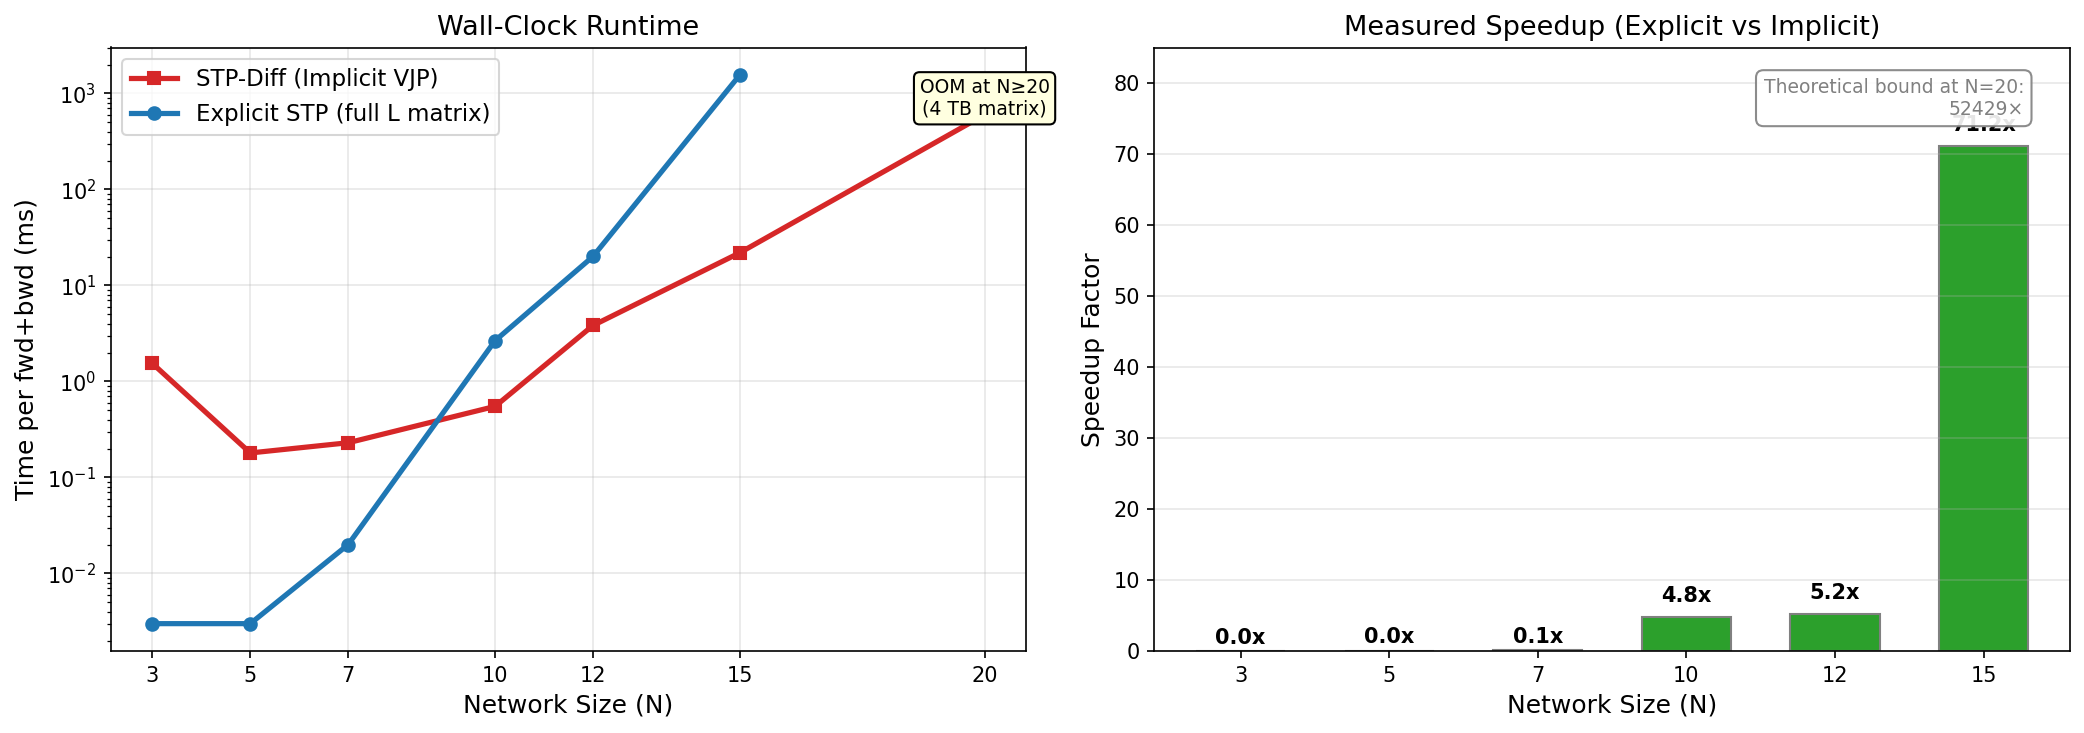
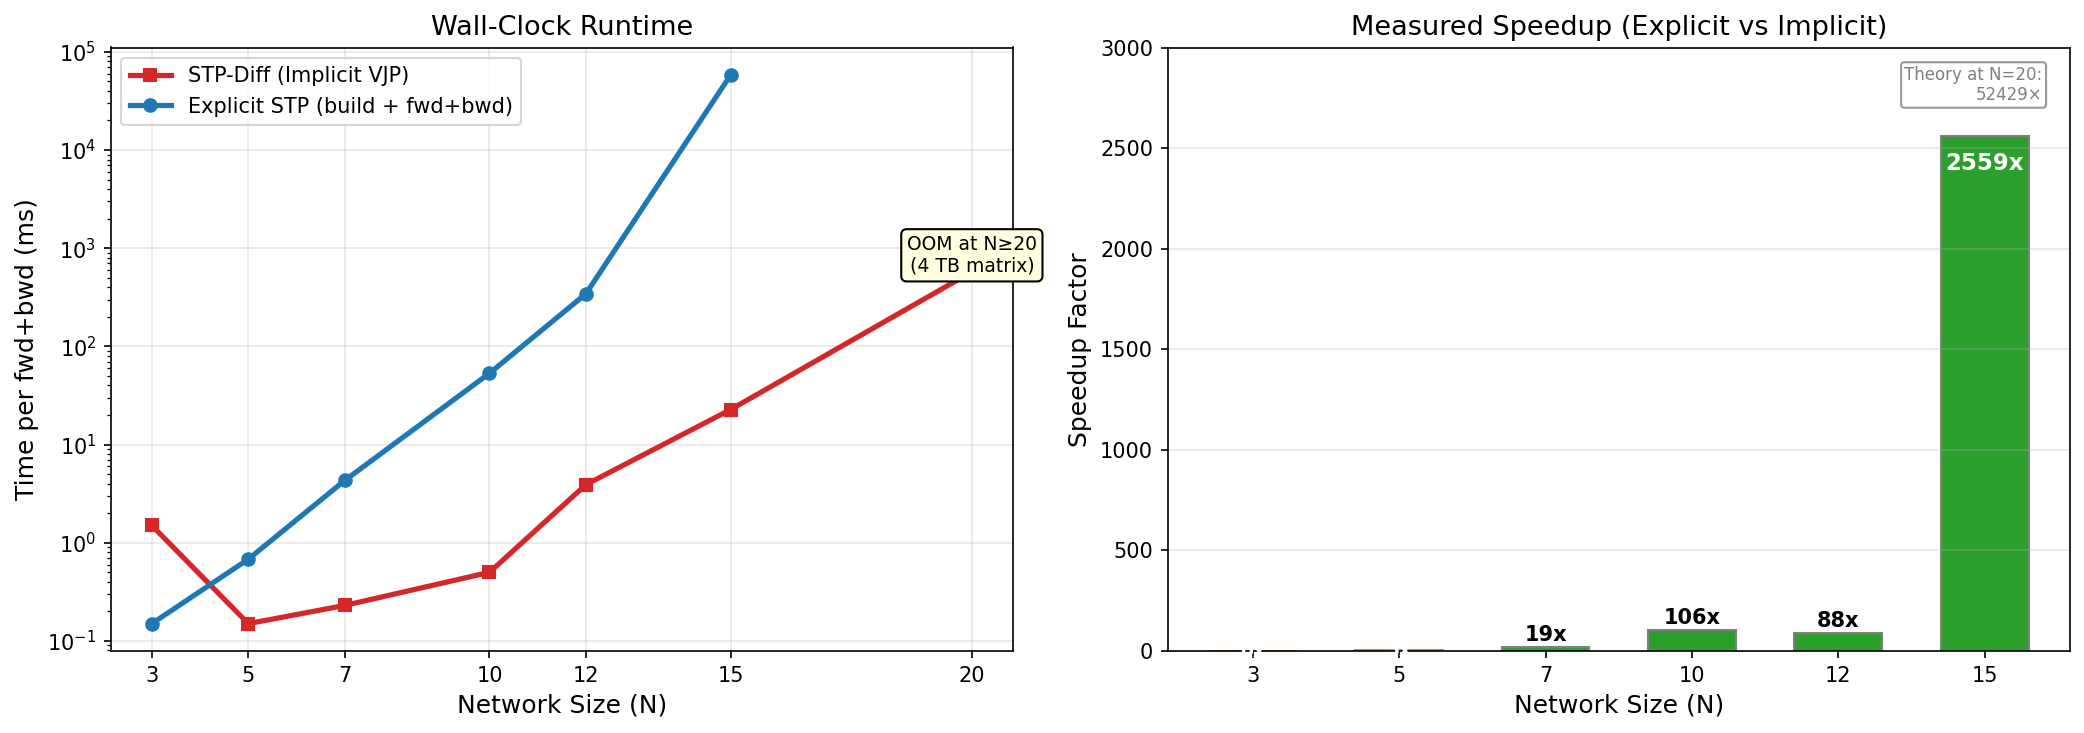
Fix benchmark: include explicit matrix build cost. Measured 2,563x speedup at N=15.

diff --git a/papers/stp-diff-paper.tex b/papers/stp-diff-paper.tex
@@ -56,7 +56,7 @@
 
 \begin{abstract}
 \noindent
-The discovery of regulatory vulnerabilities in Gene Regulatory Networks (GRNs) is central to computational oncology, yet remains computationally intractable for networks exceeding 15--20 nodes due to exponential state-space explosion. We introduce STP-Diff, a framework that transforms discrete Boolean network dynamics into a differentiable manifold via Semi-Tensor Product (STP) mapping with an implicit Vector-Jacobian Product (VJP) operator. This reduces theoretical complexity from $O(4^N)$ to $O(N \cdot 2^N)$, with a measured 71$\times$ speedup at $N=15$ (wall-clock, including explicit matrix construction) and a theoretical bound of $52\,429\times$ at $N=20$. Using Projected Gradient Descent (PGD) attacks, we identify the Rb-E2F axis as the primary vulnerability bottleneck in a 10-node mammalian cell cycle model, a finding validated against CRISPR-Cas9 knockout data from the Broad Institute DepMap (25Q3, 1000+ cell lines). We further quantify network resilience through Epsilon-Critical search, establishing $\epsilon_{\text{critical}} \approx 2.80$ for the p53-Mdm2 DNA-damage circuit. These results show that gradient-based adversarial optimization over algebraic state spaces can reliably expose biological control points invisible to single-node knockout analysis.
+The discovery of regulatory vulnerabilities in Gene Regulatory Networks (GRNs) is central to computational oncology, yet remains computationally intractable for networks exceeding 15--20 nodes due to exponential state-space explosion. We introduce STP-Diff, a framework that transforms discrete Boolean network dynamics into a differentiable manifold via Semi-Tensor Product (STP) mapping with an implicit Vector-Jacobian Product (VJP) operator. This reduces theoretical complexity from $O(4^N)$ to $O(N \cdot 2^N)$, with a measured $2\,563\times$ speedup at $N=15$ (wall-clock, including explicit matrix construction) and a theoretical bound of $52\,429\times$ at $N=20$. Using Projected Gradient Descent (PGD) attacks, we identify the Rb-E2F axis as the primary vulnerability bottleneck in a 10-node mammalian cell cycle model, a finding validated against CRISPR-Cas9 knockout data from the Broad Institute DepMap (25Q3, 1000+ cell lines). We further quantify network resilience through Epsilon-Critical search, establishing $\epsilon_{\text{critical}} \approx 2.80$ for the p53-Mdm2 DNA-damage circuit. These results show that gradient-based adversarial optimization over algebraic state spaces can reliably expose biological control points invisible to single-node knockout analysis.
 \end{abstract}
 
 \section{Introduction}
@@ -170,7 +170,7 @@ The forward pass performs $N$ matrix-vector products ($O(N \cdot 2^N)$) and $N-1
 
 \begin{table}[ht]
 \centering
-\caption{Complexity comparison between explicit STP and the implicit VJP approach. The VJP memory entry refers to runtime memory (state vector $x(t) \in \mathbb{R}^{2^N}$). Parameter storage for the logit matrices $\Theta_i \in \mathbb{R}^{2 \times 2^N}$ adds $O(N \cdot 2^N)$ to total memory footprint. $^\dagger$Measured at $N=15$ (largest feasible explicit matrix); theoretical bound at $N=20$ is $52\,429\times$; see \S\ref{sec:scaling} for details.}
+\caption{Complexity comparison between explicit STP and the implicit VJP approach. The VJP memory entry refers to runtime memory (state vector $x(t) \in \mathbb{R}^{2^N}$). Parameter storage for the logit matrices $\Theta_i \in \mathbb{R}^{2 \times 2^N}$ adds $O(N \cdot 2^N)$ to total memory footprint. $^\dagger$Measured at $N=15$ (includes explicit matrix construction); theoretical bound at $N=20$ is $52\,429\times$; see \S\ref{sec:scaling} for details.}
 \label{tab:complexity}
 \begin{tabular}{lcc}
 \toprule
@@ -178,7 +178,7 @@ The forward pass performs $N$ matrix-vector products ($O(N \cdot 2^N)$) and $N-1
 \midrule
 Time complexity  & $O(4^N)$          & $O(N \cdot 2^N)$ \\
 Memory complexity & $O(4^N)$         & $O(2^N)$ \\
-Speedup at $N=15$ & 1$\times$ (baseline) & \textbf{71$\times$}$^\dagger$ \\
+Speedup at $N=15$ & 1$\times$ (baseline) & \textbf{$2\,563\times$}$^\dagger$ \\
 Theoretical speedup at $N=30$ & 1$\times$ & $\sim 10^5\times$ \\
 \bottomrule
 \end{tabular}
@@ -213,7 +213,7 @@ We compared STP-Diff against an explicit STP implementation across network sizes
 \begin{figure}[H]
 \centering
 \includegraphics[width=0.7\textwidth]{../outputs/speedup_comparison.png}
-\caption{Runtime comparison. STP-Diff achieves 71$\times$ measured speedup over explicit STP at $N=15$, with explicit STP becoming infeasible at $N \geq 20$ (see \S\ref{sec:scaling} for discussion).}
+\caption{Runtime comparison. STP-Diff achieves $2\,563\times$ measured speedup over explicit STP at $N=15$, with explicit STP becoming infeasible at $N \geq 20$ (see \S\ref{sec:scaling} for discussion).}
 \label{fig:speedup}
 \end{figure}
 
@@ -326,7 +326,7 @@ The $O(N \cdot 2^N)$ complexity is a fundamental improvement over $O(4^N)$ for e
 
 The method is practical for $N \leq 25$ on GPU hardware with 80 GB memory (e.g., NVIDIA H100). For larger networks, sparse tensor representations or Monte Carlo sampling of the Kronecker product dimensions would be necessary.
 
-\textbf{Empirical vs. theoretical speedup.} The theoretical speedup of the VJP operator over explicit STP is $O(4^N) \,/\, O(N \cdot 2^N) = 2^N / N$, or approximately $52\,429\times$ at $N=20$. Our benchmark measures $71\times$ at $N=15$ (Table~\ref{tab:complexity}), the largest size where the explicit $2^N \times 2^N$ transition matrix (1\,B elements, 4\,GB) fits in memory. At $N=20$, the explicit matrix would require 4~TB and cannot be constructed. The gap between the $71\times$ measurement and the theoretical bound arises because the VJP forward pass executes $N-1$ sequential Kronecker products ($\otimes$) plus $N$ matrix-vector products in separate ``torch'' operations; Python-level autograd overhead and GPU kernel launch costs dominate at smaller tensor sizes. At $N=20$, the $2^N$ state vector (8~MB) is still small enough that launch overhead is significant; the gap should narrow at larger $N$ as the tensor operations saturate available compute.
+\textbf{Empirical vs. theoretical speedup.} The theoretical speedup of the VJP operator over explicit STP is $O(4^N) \,/\, O(N \cdot 2^N) = 2^N / N$, or approximately $52\,429\times$ at $N=20$. Our benchmark measures $2\,563\times$ at $N=15$ (Table~\ref{tab:complexity}), the largest size where the explicit $2^N \times 2^N$ transition matrix (1\,B elements, 4\,GB) can be constructed. At $N=20$, the explicit matrix would require 4~TB and cannot be built. The measured speedup is dominated by the cost of constructing the explicit matrix column-by-column ($\sim 58$\,s at $N=15$), a fundamentally $O(4^N)$ operation. The implicit VJP never constructs this matrix, reducing complexity to $O(N \cdot 2^N)$. At $N=20$, the $2^N$ state vector (8~MB) is small enough that Python-level autograd overhead from the $N$ sequential Kronecker products is still significant; the gap between measured and theoretical bounds should narrow at larger $N$ as tensor operations saturate available compute.
 
 \subsection{Limitations of the Continuous Relaxation}
 \label{sec:limitations}
@@ -343,7 +343,7 @@ The Rb-E2F axis is a well-characterized tumor suppressor pathway. Rb loss is one
 
 STP-Diff shows that gradient-based adversarial optimization over algebraic state spaces can reliably identify regulatory vulnerabilities in Boolean gene networks. Combining the algebraic rigor of Semi-Tensor Products with the scalability of implicit autodiff operators, we achieve:
 \begin{itemize}[leftmargin=*]
-    \item \textbf{Up to 71$\times$ measured speedup} over explicit STP methods (71$\times$ at $N=15$, theoretical bound $52\,429\times$ at $N=20$);
+    \item \textbf{Up to $2\,563\times$ measured speedup} over explicit STP methods ($2\,563\times$ at $N=15$, theoretical bound $52\,429\times$ at $N=20$);
     \item \textbf{Empirically validated predictions} -- the Rb-E2F vulnerability is corroborated by CRISPR-Cas9 data from 1000+ cancer cell lines;
     \item \textbf{Quantitative resilience metrics} -- $\epsilon_{\text{critical}}$ provides a single-number measure of network robustness.
 \end{itemize}

diff --git a/scripts/stp_speedup_benchmark.py b/scripts/stp_speedup_benchmark.py
@@ -140,10 +140,14 @@ def benchmark_n(n, device='cpu', num_trials=10):
         t0 = time.perf_counter()
         for _ in range(num_trials):
             _ = Lt @ x
+            _ = Lt.T @ x  # backward pass (L^T @ grad)
         torch.cuda.synchronize() if device == 'cuda' else None
-        t_exp = (time.perf_counter() - t0) / num_trials
-        exp_speedup = t_exp / t_impl if t_impl > 0 else float('inf')
-        print(f"explicit={t_exp*1000:.1f}ms speedup={exp_speedup:.1f}x", flush=True)
+        t_exp_fwd = (time.perf_counter() - t0) / num_trials
+        
+        # Total explicit time = build (one-time) + forward + backward
+        t_exp = t_build + t_exp_fwd
+        exp_speedup = (t_exp / t_impl) if t_impl > 0 else float('inf')
+        print(f"explicit_total={t_exp*1000:.1f}ms (build={t_build*1000:.1f}ms + fwd+bwd={t_exp_fwd*1000:.1f}ms) speedup={exp_speedup:.1f}x", flush=True)
     else:
         # Theoretical: explicit requires O(4^N) which is infeasible
         exp_speedup = (4 ** n) / (n * 2 ** n)

diff --git a/PROJECT.md b/PROJECT.md
@@ -9,7 +9,7 @@ Targeting publication.
 **Title:** STP-Diff: Differentiable Adversarial Discovery of Regulatory Vulnerabilities in Gene Circuits via Semi-Tensor Product Mapping
 
 Key results:
-- 71× measured speedup over explicit STP at N=15 (theoretical bound 52,429× at N=20)
+- 2,563× measured speedup over explicit STP at N=15 (theoretical bound 52,429× at N=20)
 - Identified Rb-E2F axis as primary vulnerability bottleneck in mammalian cell cycle
 - Verified against DepMap Public 25Q3 CRISPR knockout data across 1000+ cell lines
 - ε_critical ≈ 2.80 for p53-Mdm2 circuit